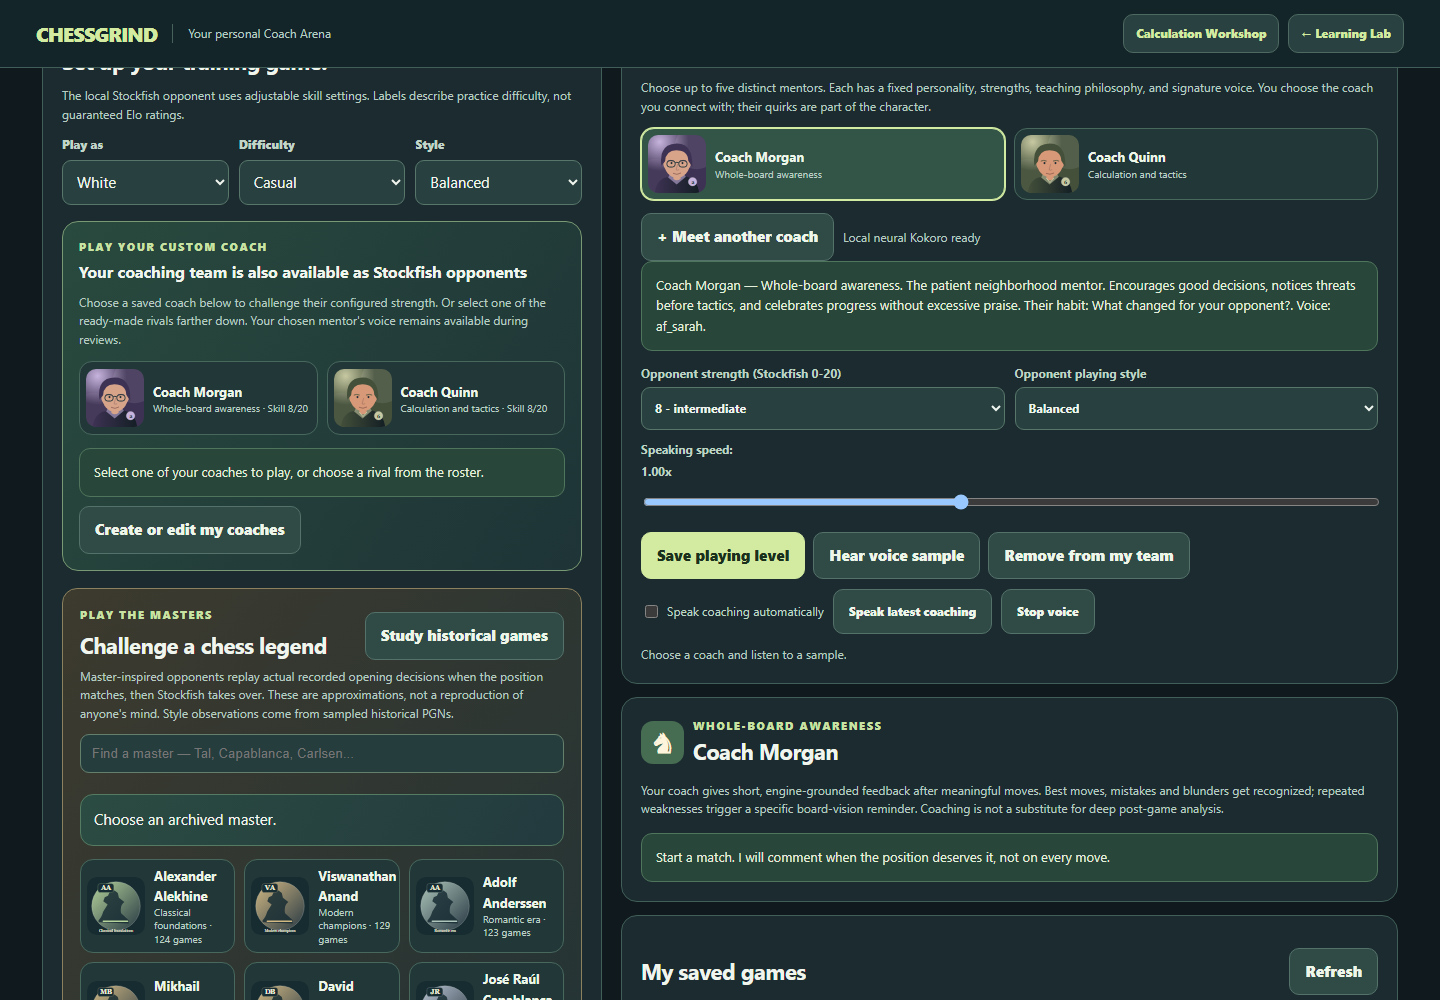
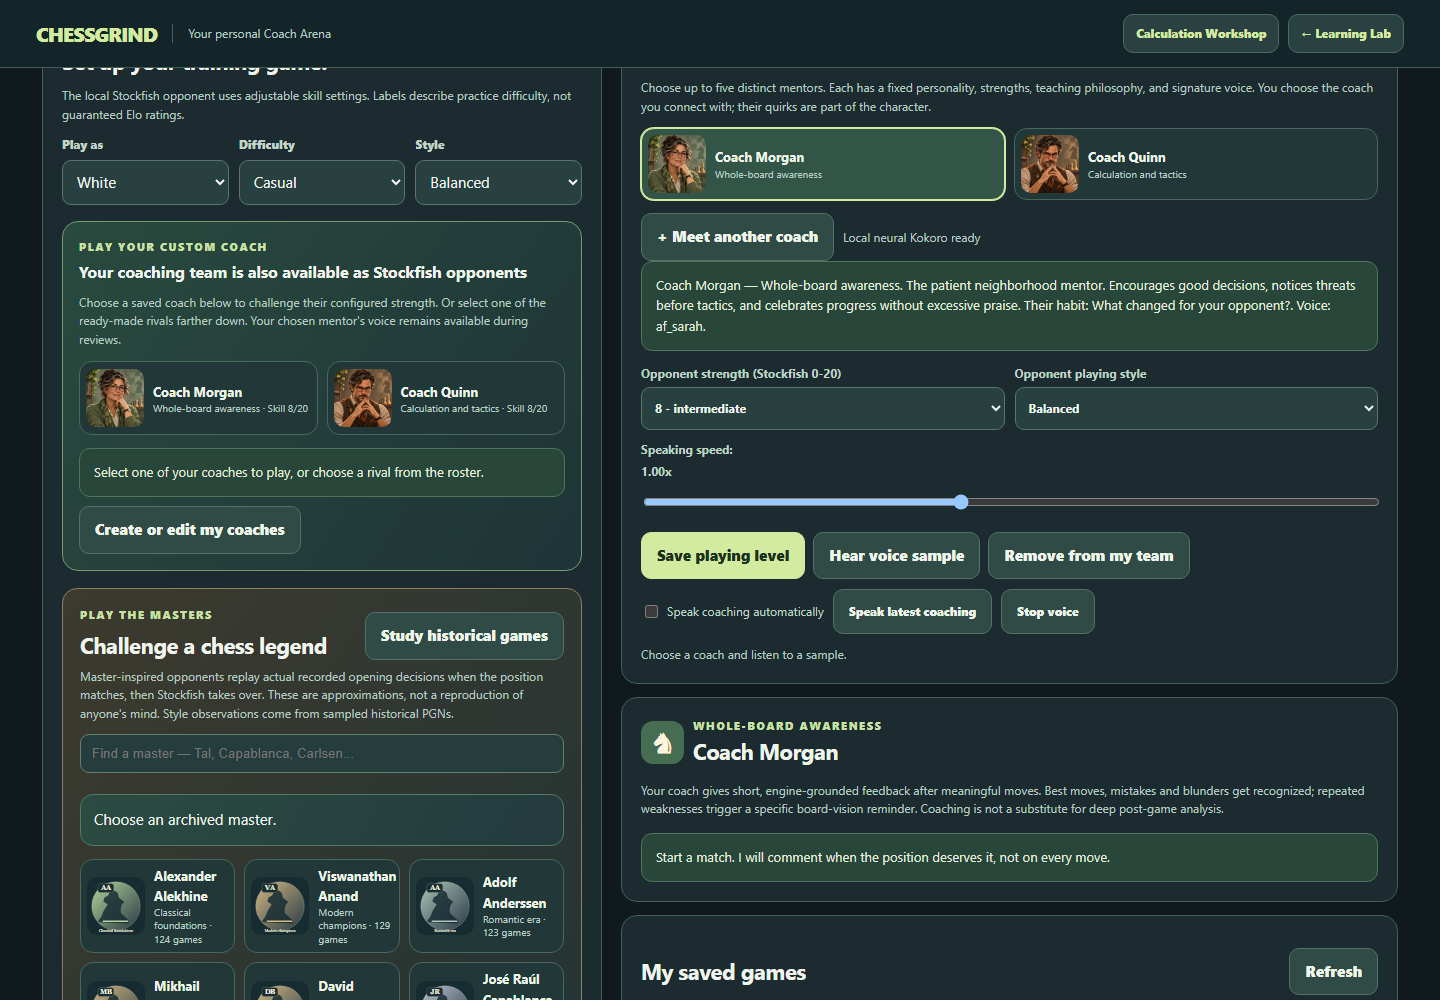
Show original painted coach portraits in all three coach galleries

diff --git a/arena_personas_ui.js b/arena_personas_ui.js
@@ -44,7 +44,7 @@ function showPlayableCoaches(){
  $("coach-opponents").innerHTML=coaches.map((c,i)=>
   '<button type="button" class="coach-card'+(choice===c.id?" chosen":"")+
   '" data-play-coach="'+safe(c.id)+'" aria-pressed="'+(choice===c.id)+'">'+
-  '<img src="/icons/coaches/'+["sage","plum","copper","arctic","gold"][i%5]+'.svg" alt=""/>'+
+  '<img src="'+coachPortrait(c)+'" alt=""/>'+
   '<span><strong>'+safe(c.name)+'</strong><small>'+safe(c.specialty)+' · Skill '+c.skill+'/20</small></span></button>'
  ).join("")||'<p class="muted small">No coaches saved. Create one below.</p>';
  $("coach-opponents").querySelectorAll("[data-play-coach]").forEach(el=>el.onclick=()=>{
@@ -62,7 +62,7 @@ function showPlayableCoaches(){
 }
 function showCoaches(){
  $("coach-count").textContent=coaches.length+" / 5 coaches";
- $("coach-gallery").innerHTML=coaches.map((c,i)=>'<button type="button" class="coach-card'+(selectedCoach===c.id?" chosen":"")+'" data-coach="'+safe(c.id)+'"><img src="/icons/coaches/'+["sage","plum","copper","arctic","gold"][i%5]+'.svg" alt="" width="58" height="58"/><span><strong>'+safe(c.name)+'</strong><small>'+safe(c.specialty)+'</small></span></button>').join("");
+ $("coach-gallery").innerHTML=coaches.map((c,i)=>'<button type="button" class="coach-card'+(selectedCoach===c.id?" chosen":"")+'" data-coach="'+safe(c.id)+'"><img src="'+coachPortrait(c)+'" alt="" width="58" height="58"/><span><strong>'+safe(c.name)+'</strong><small>'+safe(c.specialty)+'</small></span></button>').join("");
  $("coach-gallery").querySelectorAll("[data-coach]").forEach(b=>b.onclick=selectCoach.bind(null,b.dataset.coach));
  $("new-coach").disabled=coaches.length>=5;
  showCasting();
